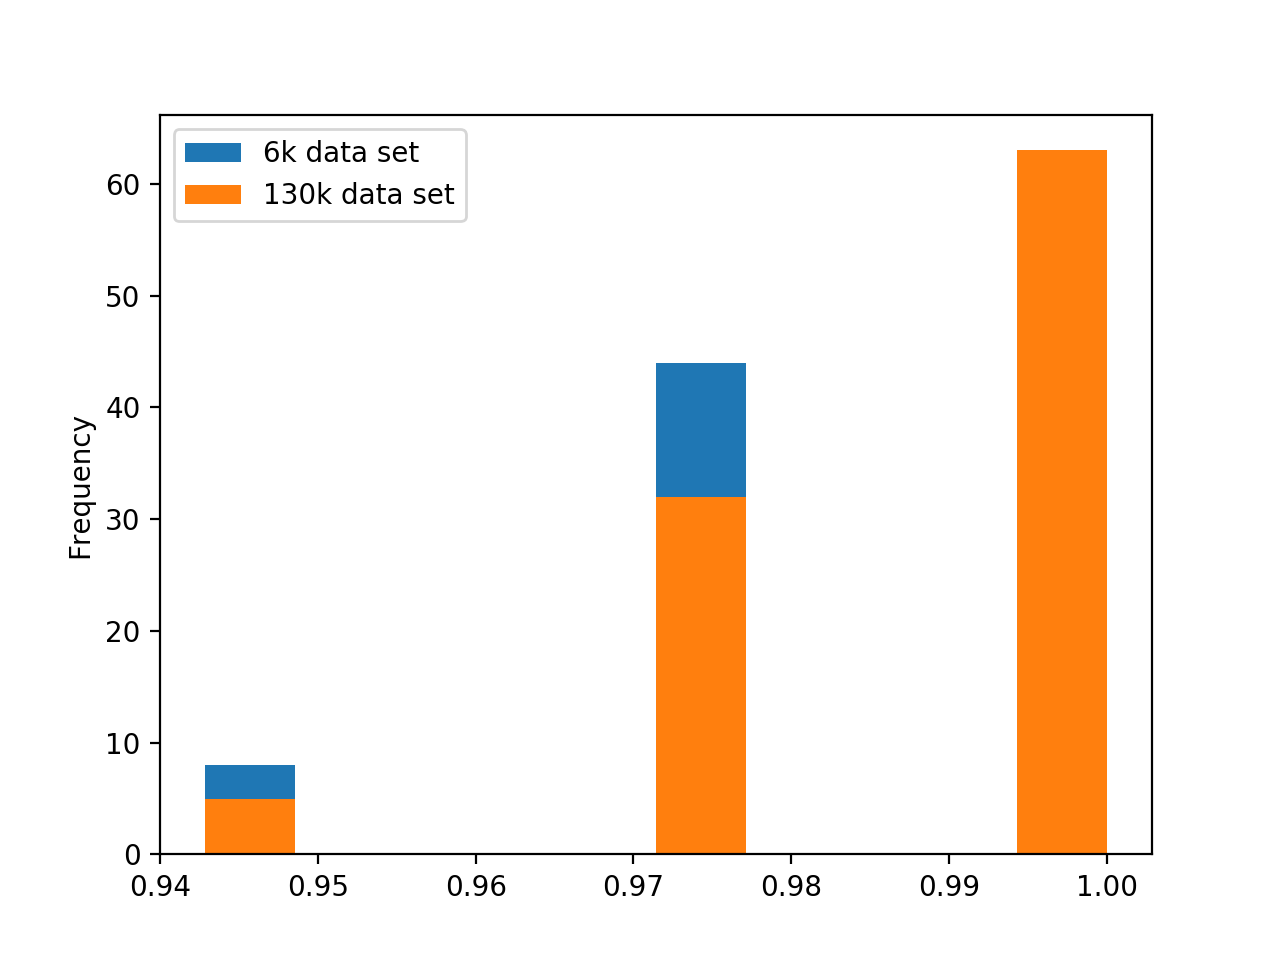
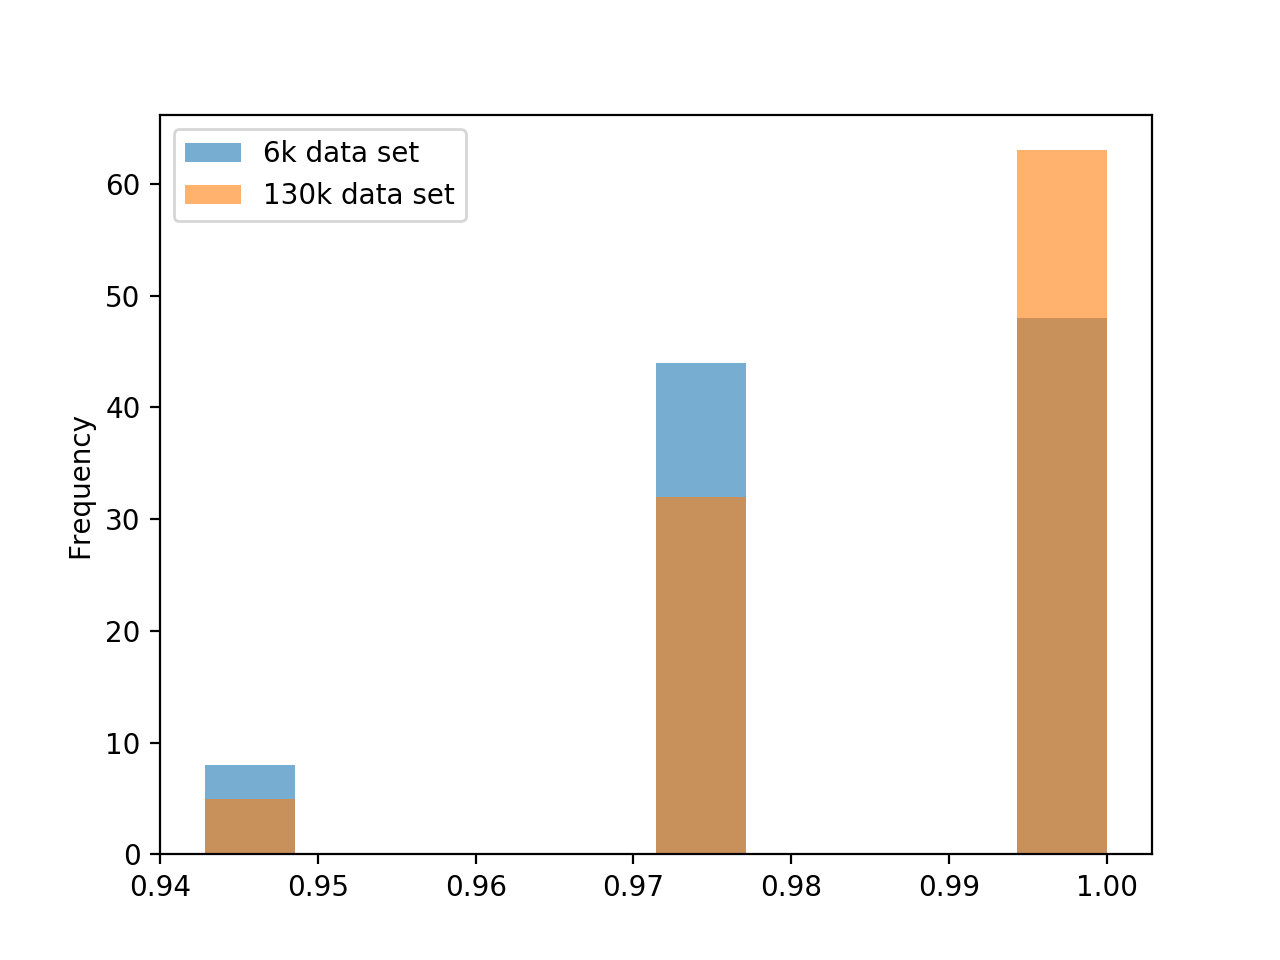
dist pics

diff --git a/src/newick_tree.py b/src/newick_tree.py
@@ -249,18 +249,21 @@ if __name__ == "__main__":
     # CHIIRvs100_Rf(join(data_path, '6kdoc_newickTrees'), rfcsv, absolute=False)
     # show_kde(rfcsv)
 
-    # # d1 = pd.read_csv(join(data_path, '6kdoc_rfdist.csv')).dist
-    # d2 = pd.read_csv(join(data_path, '130kdoc_rfdist.csv')).dist
-    # # d1 = pd.read_csv(join(data_path, 'CHIIR_vs_6k.csv')).dist
-    # # d2 = pd.read_csv(join(data_path, 'CHIIR_vs_130k.csv')).dist
-    # # df = pd.DataFrame({
-    # # '6k data set': d1,
-    # # '130k data set': d2,
-    # # })
-    # ax = d2.plot.hist()
-    # plt.show()
+    d1 = pd.read_csv(join(data_path, '6kdoc_rfdist.csv')).dist
+    d2 = pd.read_csv(join(data_path, '130kdoc_rfdist.csv')).dist
+    # d1 = pd.read_csv(join(data_path, 'CHIIR_vs_6k.csv')).dist
+    # d2 = pd.read_csv(join(data_path, 'CHIIR_vs_130k.csv')).dist
+    df = pd.DataFrame({
+    '6k data set': d1,
+    '130k data set': d2,
+    })
+    ax = df.plot.hist(alpha=0.6)
+    # ax = df.plot.kde()
+    # ax.set_xlim([0.0, 1.0])
+    plt.show()
 
     # get_ensembles()
-    show_ensemble_dist_plot('/Users/Karoteeni/coooode/Cleanskin/data/ensemble_n.csv')
+
+    # show_ensemble_dist_plot('/Users/Karoteeni/coooode/Cleanskin/data/ensemble_n.csv')
 
 
